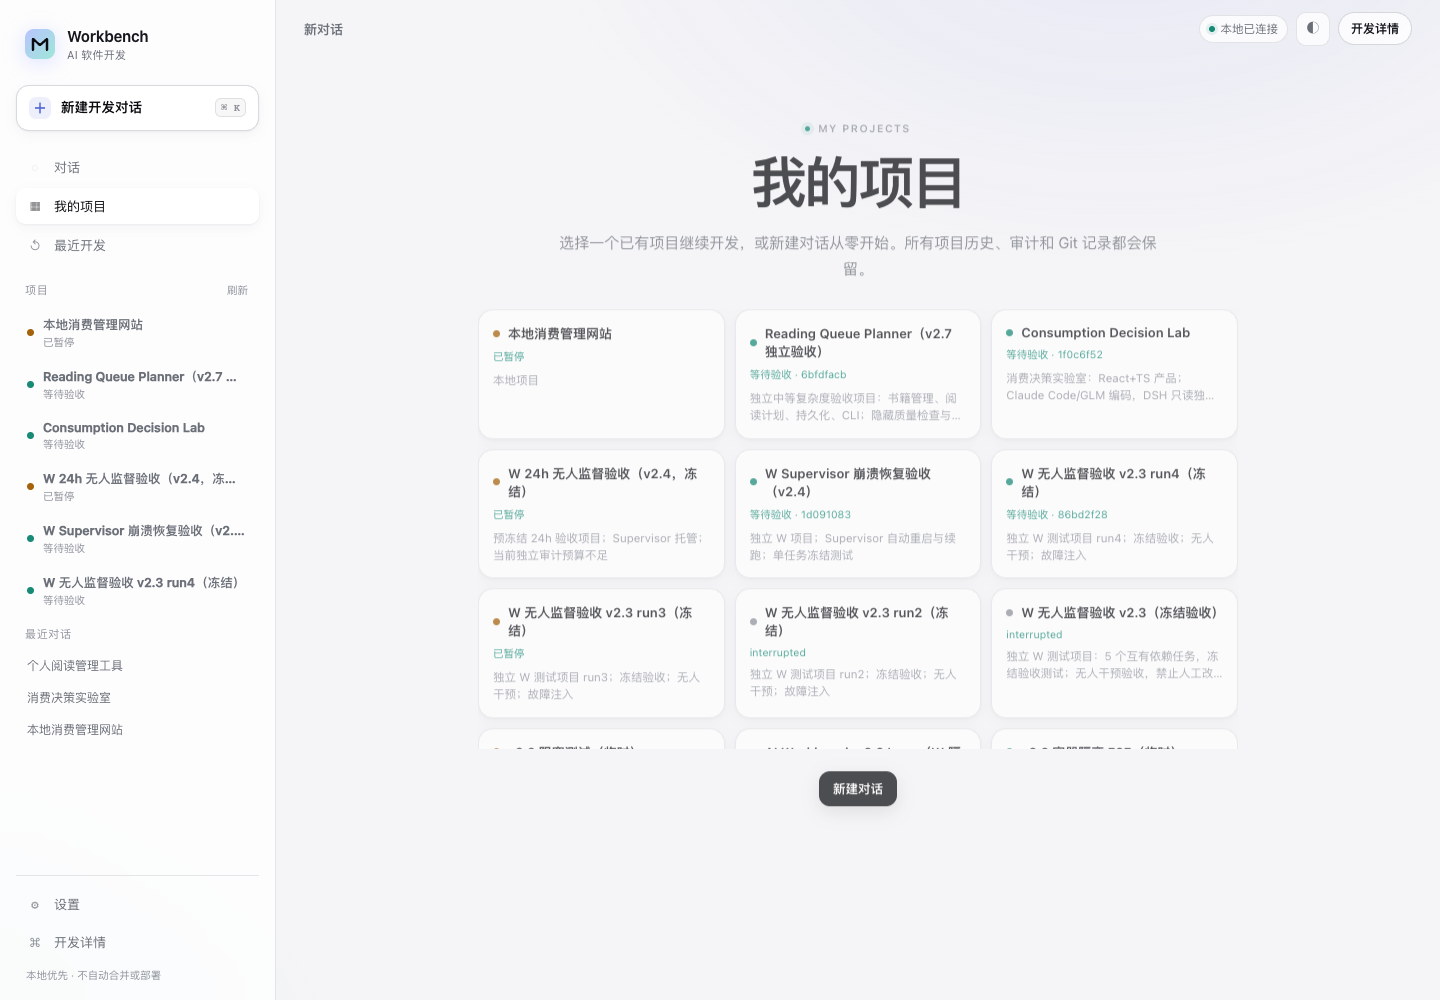
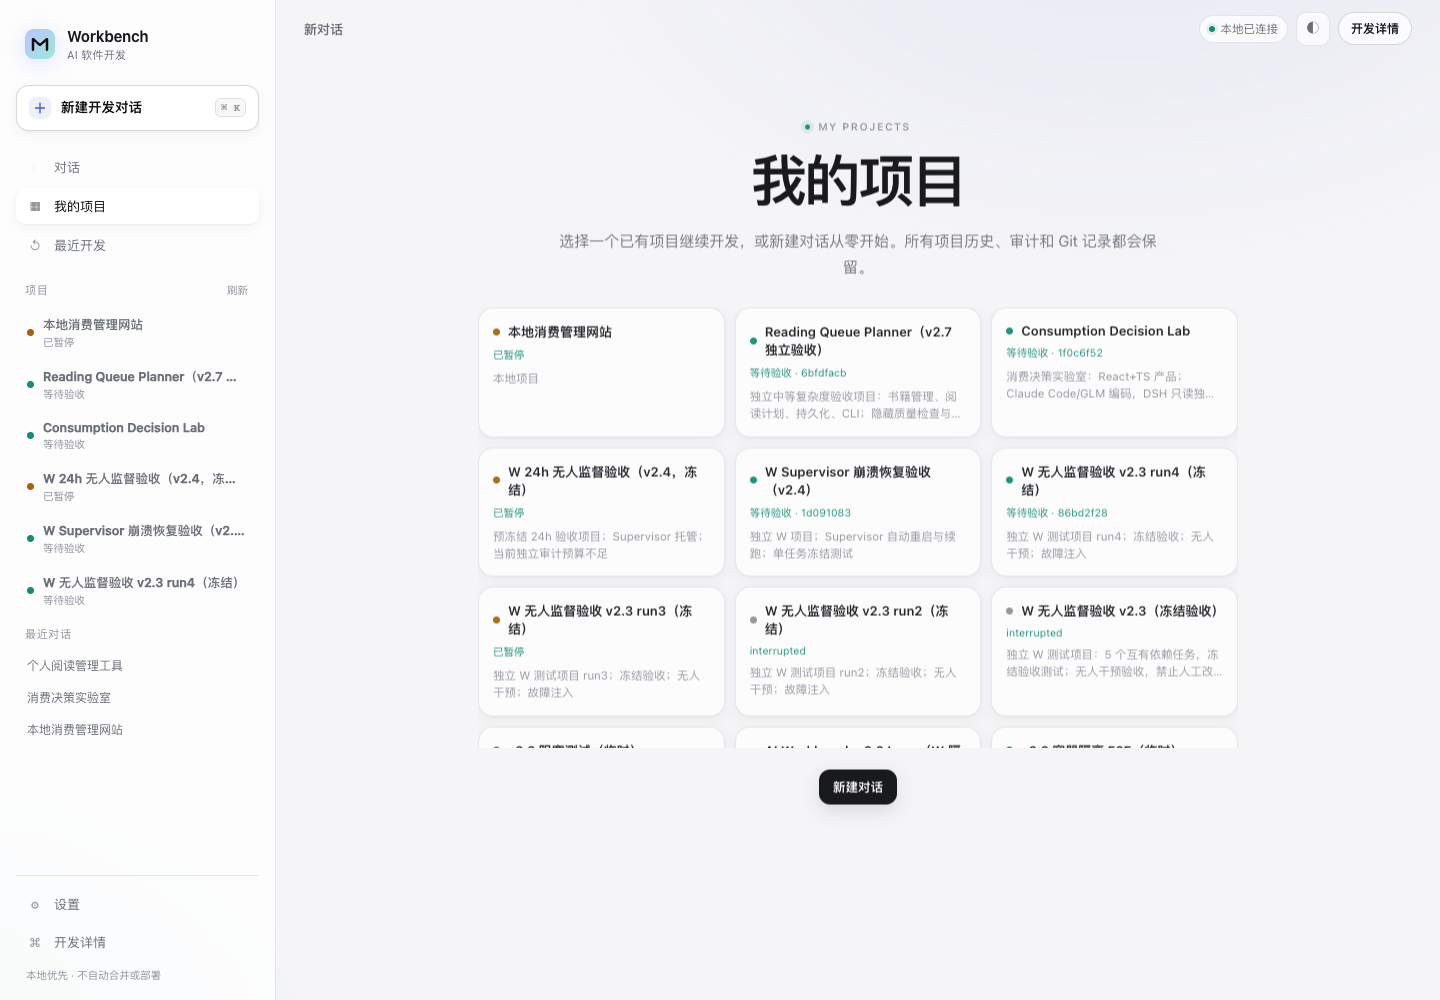
docs(v2.9): final screenshot/test evidence for chat-first release

diff --git a/demo/evidence/v2.9/screenshots.md b/demo/evidence/v2.9/screenshots.md
@@ -3,12 +3,12 @@
 - `01-welcome-light.png` — 极简首页（浅色）
 - `02-welcome-dark.png` — 极简首页（深色）
 - `03-conversation.png` — 真实 DeepSeek 对话 + 需求草案（个人阅读管理工具）
-- `04-blocked.png` — 真实一键开发尝试因预算在 Coding 前暂停：规划已完成、编码未执行
+- `04-blocked.png` — 真实一键开发尝试因全局预算在 Coding 前暂停：规划已完成、编码未执行
 - `05-completed.png` — 真实项目状态：消费决策实验室 v0.2 的 run awaiting acceptance + real Git/quality
-- `05-projects.png` — 我的项目
+- `05-projects.png` — 我的项目（22 个项目；主面板为项目网格）
 - `06-settings.png` — 设置/外观/预算/高级入口
 - `07-mobile-welcome.png` — 手机首页
 - `08-mobile-sidebar.png` — 手机侧栏
 - `09-advanced.png` — 高级工程控制台（旧 UI 完整保留）
 - `10-mobile-conversation.png` — 手机端真实项目状态对话
-- **未捕获**：实时“自动修复中”截图。新一键项目在 Coding Agent 前被预算阻塞，没有授权的 active repair run；未用伪造状态截图。
+- **未捕获**：实时“自动修复中”截图。新一键项目在 Coding Agent 前被预算阻塞，没有授权的 active repair run；没有伪造状态截图。
